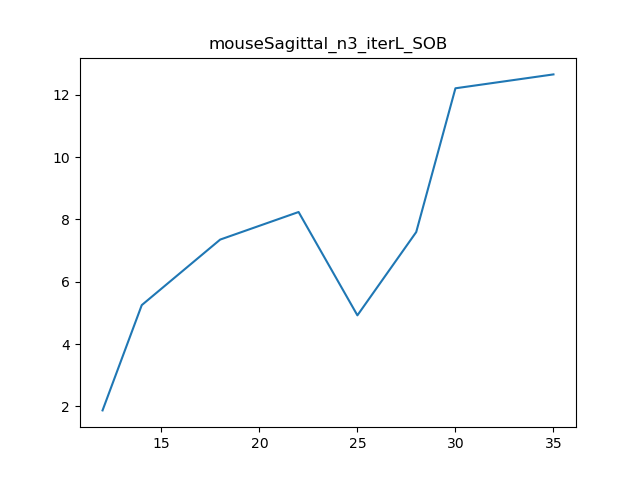
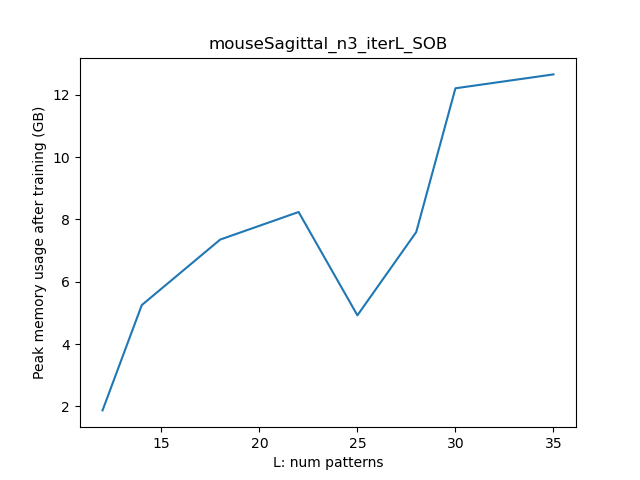
add axes for memory plots

Changed region(s): [[0.0312, 0.2188, 0.0938, 0.5625], [0.0312, 0.5938, 0.0625, 0.7812], [0.4375, 0.9375, 0.5938, 0.9688]]

diff --git a/mouse_sagittal_data_analysis_benchmarkMem/plot_res.py b/mouse_sagittal_data_analysis_benchmarkMem/plot_res.py
@@ -8,7 +8,9 @@ import matplotlib.pyplot as plt
 #%%
 dataFile = "results/memoryUsage_mouseSagittal_n3_iterL_runSeperately_SOB_062323.csv"
 X = "L"
+X_label = "L: num patterns"
 Y = "peak_after_training"
+Y_label = "Peak memory usage after training (GB)"
 savefig = True
 savename = "mouseSagittal_n3_iterL_SOB"
 
@@ -16,6 +18,8 @@ savename = "mouseSagittal_n3_iterL_SOB"
 data = pd.read_csv(dataFile)
 plt.plot(data[X], data[Y])
 plt.title(savename)
+plt.xlabel(X_label)
+plt.ylabel(Y_label)
 
 if savefig:
     plt.savefig("plots/" + savename+".png")
